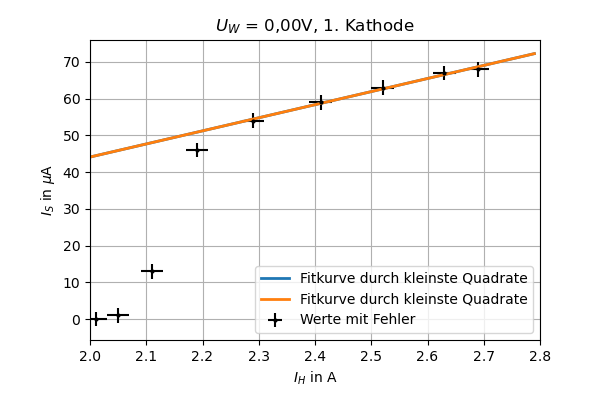
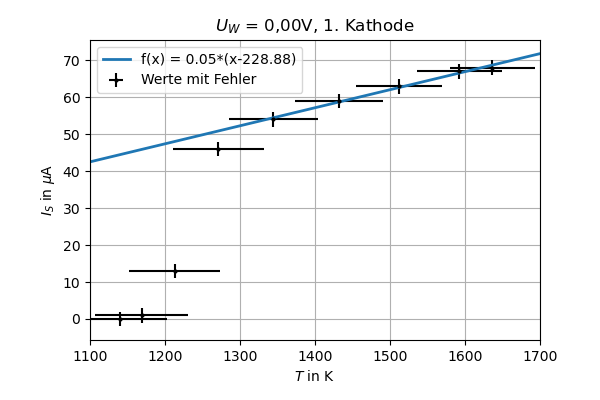
ELO

diff --git a/FP/2.-ELO.py b/FP/2.-ELO.py
@@ -19,6 +19,10 @@ for i in range(countFiles):
     beamData.append(np.loadtxt(file[i], delimiter=","))
     
 """ Konstanten """
+A = -328.104
+B = 730.294
+A_err = 24.589
+B_err = 8.678
 
 """ Daten vorbereiten """
 s = []
@@ -33,6 +37,14 @@ for i in range(countFiles):
     xerr.append([err[i//3] for j in range(s[i])])
     y_data.append(beamData[i][:,1])
     yerr.append([2 for j in range(s[i])])
+    
+x_data_old = []
+xerr_old = []
+for i in range(3,countFiles):
+    x_data_old.append(x_data[i])
+    x_data[i] = [(A + B * x) for x in x_data[i]]
+    xerr_old.append(xerr[i])
+    xerr[i] = [(A_err + (B_err * x) + (B * 0.02)) for x in x_data_old[i-3]]
 
 x_data[3] = x_data[3][::-1]
 y_data[3] = y_data[3][::-1]
@@ -44,7 +56,7 @@ fig = []
 ax = []
 stri = ["$I_H$","$U_W$","$U_W$"]
 val = ["2,20A","2,51A","2,70A","0,00V","0,00V","3,01V","6,00V","1,50V"]
-xlab = ["$U_W$ in V","$I_H$ in A","$I_H$ in A"]
+xlab = ["$U_W$ in V","$T$ in K","$T$ in K"]
 for i in range(countFiles):
     fig.append(plt.figure())
     ax.append(fig[i].add_axes([0.15,0.15,0.75,0.75]))
@@ -68,8 +80,8 @@ ax[countFiles].set_xlabel(f"{xlab[0]}")
 ax[countFiles].set_ylabel("$I_S$ in $\mu$A")
 
 """ Regressionskurve """ 
-xmax = [2.8,2.8,2.8,2.8]
-xmin = [2.0,2.45,2.45,2.45]
+xmax = [1700,1700,1730,1730]
+xmin = [1100,1450,1450,1450]
 indize = [4,10,8,7]
 fitplots = [3,4,5,7]
 x_data_unlimited = []
@@ -85,58 +97,93 @@ for i in range(4):
     fitRes.append(curve_fit(fitCurve, x_data[fitplots[i]][indize[i]:], y_data[fitplots[i]][indize[i]:], p0=[-1, 1]))
     pFit = fitRes[i][0]
     pCov = fitRes[i][1]
-    ax[fitplots[i]].plot(x_data_unlimited[i], fitCurve(x_data_unlimited[i], *pFit), label="Fitkurve durch kleinste Quadrate",linewidth=2)
+    A = fitRes[i][0][0].round(2)
+    B = fitRes[i][0][1].round(2)
+    string = f"f(x) = {A}*(x-{B})"
+    print("Regressionskurve %s: %s"%(i+1,string))
+    ax[fitplots[i]].plot(x_data_unlimited[i], fitCurve(x_data_unlimited[i], *pFit), label=string,linewidth=2)
     ax[fitplots[i]].legend()
     perr.append(np.sqrt(np.diag(pCov)))
     print("Fitfehler",i+1,perr[i])
     ax[fitplots[i]].set(xlim=(xmin[i],xmax[i]))
 
-""" Regressionsfunktion """
-x = sp.symbols('x')
-for i in range(4):
-    A = fitRes[i][0][0].round(4)
-    B = fitRes[i][0][1].round(4)
-    fitCurve = A * x - B
-    print("Regressionskurve %s: %s"%(i+1,fitCurve))
-    # lambdified_fitCurve = sp.lambdify(x,fitCurve)
-    # #Nulstellen:
-    # print("Nullstellen %s: %s"%(i+1,np.roots(fitRes[i][0])))
-    # maxFit = [fitRes[i][0][0]+perr[i][0],fitRes[i][0][1]-perr[i][1]]
-    # print("Nullstellenfehler %s: %s"%(i+1,np.roots(maxFit)[0]-np.roots(fitRes[i][0])[0]))
     
+""" Plotten """
+x_data_new = []
+xerr_new = []
+y_data_new = []
+yerr_new = []
+for i in range(4):
+    x_data[fitplots[i]] = np.array(x_data[fitplots[i]])
+    y_data[fitplots[i]] = np.array(y_data[fitplots[i]])
+    x_data_new.append(1/x_data[fitplots[i]])
+    xerr_new.append(xerr[fitplots[i]]/(x_data[fitplots[i]]**2))
+    y_data_new.append(np.log(y_data[fitplots[i]]/(x_data[fitplots[i]]**2)))
+    yerr_new.append((1/x_data[fitplots[i]]) + 2/(y_data[fitplots[i]]**2))
+    fig.append(plt.figure())
+    ax.append(fig[i+countFiles+1].add_axes([0.15,0.15,0.75,0.75]))
+    ax[i+countFiles+1].errorbar(x_data_new[i],y_data_new[i],yerr_new[i],xerr_new[i],label="Werte mit Fehler",fmt='o',markersize=2,color="Black")
+    ax[i+countFiles+1].legend()
+    ax[i+countFiles+1].grid(True)
+    # ax[i].axis([0,1,2,3])
+    # ax[i].set(xlim=(0,8))
+    # ax[i].set(ylim=(-0.2,2.2))
+    ax[i+countFiles+1].set_xlabel("$1/T$ in $K^{-1}$")
+    ax[i+countFiles+1].set_ylabel("$ln(I_S/T^2)$ in ln($\mu$A/$K^2$)")
+    ax[i+countFiles+1].set_title(f"{stri[fitplots[i]//3]} = {val[fitplots[i]]}, {fitplots[i]//4+1}. Kathode")
+
 """ Regressionskurve """ 
+xmax = [0.0009,0.0007,0.0007,0.0007]
+xmin = [0.00055,0.00055,0.00055,0.00055]
 x_data_unlimited = []
 for i in range(4):
-    x_data_unlimited.append(np.arange(xmin[i],xmax[i],0.01))
+    x_data_unlimited.append(np.arange(xmin[i],xmax[i],0.00001))
 
 def fitCurve(x, A, B):
-    return A * np.asarray(x-B)
+    return A * np.asarray(x) + B
 
 fitRes = []
 perr = []
-for i in range(4):
-    fitRes.append(curve_fit(fitCurve, x_data[fitplots[i]][indize[i]:], y_data[fitplots[i]][indize[i]:], p0=[-1, 1]))
-    pFit = fitRes[i][0]
-    pCov = fitRes[i][1]
-    ax[fitplots[i]].plot(x_data_unlimited[i], fitCurve(x_data_unlimited[i], *pFit), label="Fitkurve durch kleinste Quadrate",linewidth=2)
-    ax[fitplots[i]].legend()
-    perr.append(np.sqrt(np.diag(pCov)))
-    print("Fitfehler",i+1,perr[i])
-    ax[fitplots[i]].set(xlim=(xmin[i],xmax[i]))
-
-""" Regressionsfunktion """
+minind = [1,1,0,0]
 x = sp.symbols('x')
 for i in range(4):
-    A = fitRes[i][0][0].round(4)
-    B = fitRes[i][0][1].round(4)
-    fitCurve = A * x - B
-    print("Regressionskurve %s: %s"%(i+1,fitCurve))
-    # lambdified_fitCurve = sp.lambdify(x,fitCurve)
-    # #Nulstellen:
-    # print("Nullstellen %s: %s"%(i+1,np.roots(fitRes[i][0])))
-    # maxFit = [fitRes[i][0][0]+perr[i][0],fitRes[i][0][1]-perr[i][1]]
-    # print("Nullstellenfehler %s: %s"%(i+1,np.roots(maxFit)[0]-np.roots(fitRes[i][0])[0]))
+    fitRes.append(curve_fit(fitCurve, x_data_new[i][minind[i]:indize[i]], y_data_new[i][minind[i]:indize[i]], p0=[-2000, 5]))
+    pFit = fitRes[i][0]
+    pCov = fitRes[i][1]
+    A = fitRes[i][0][0].round(2)
+    B = fitRes[i][0][1].round(2)
+    fitCurveStr = A * x + B
+    string = "f(x) = %s"%fitCurveStr
+    print("Regressionskurve %s: %s"%(i+1,string))
+    ax[i+countFiles+1].plot(x_data_unlimited[i], fitCurve(x_data_unlimited[i], *pFit), label=string,linewidth=2)
+    ax[i+countFiles+1].legend()
+    perr.append(np.sqrt(np.diag(pCov)))
+    print("Fitfehler",i+1,perr[i])
+    ax[i+countFiles+1].set(xlim=(xmin[i],xmax[i]))
+    
+""" Plot speichern """
+for i in range(countFiles+5):
+    fig[i].savefig("./2.Plots/%s_%s_plot.png"%(versuchsname,i), dpi=100) # Bild als png Datei in Ordner Plots gespeichert
+    
+""" Daten in Tabelle ausgeben """
+fig = []
+ax = []
+for i in range(3,countFiles):
+    b = []
+    b.append(np.around(x_data_old[i-3],3))
+    b.append(np.around(xerr_old[i-3],3))
+    b.append(np.around(x_data[i],3))
+    b.append(np.around(xerr[i],3))
+    b.append(np.around(y_data[i],3))
+    b.append(np.around(yerr[i],3))
+    labels = ["$I_H$ in A","$\Delta I_H$ in A",f"{xlab[i//3]}",f"$\Delta${xlab[i//3]}","$I_S$ in $\mu$A","$\Delta I_S$ in $\mu$A"]
+    b = np.array(b).T
+    fig.append(plt.figure())
+    ax.append(fig[i-3].add_axes([0,0,1,1]))
+    ax[i-3].table(cellText=b,colLabels=labels,loc='center',rowLoc='center')
+    ax[i-3].axis("off")
+    ax[i-3]
 
 """ Plot speichern """
-for i in range(countFiles+1):
-    fig[i].savefig("./2.Plots/%s_%s_plot.png"%(versuchsname,i), dpi=100) # Bild als png Datei in Ordner Plots gespeichert
+for i in range(5):
+    fig[i].savefig("./2.Plots/%s_%s_table.png"%(versuchsname,i), dpi=100) # Bild als png Datei in Ordner Plots gespeichert
